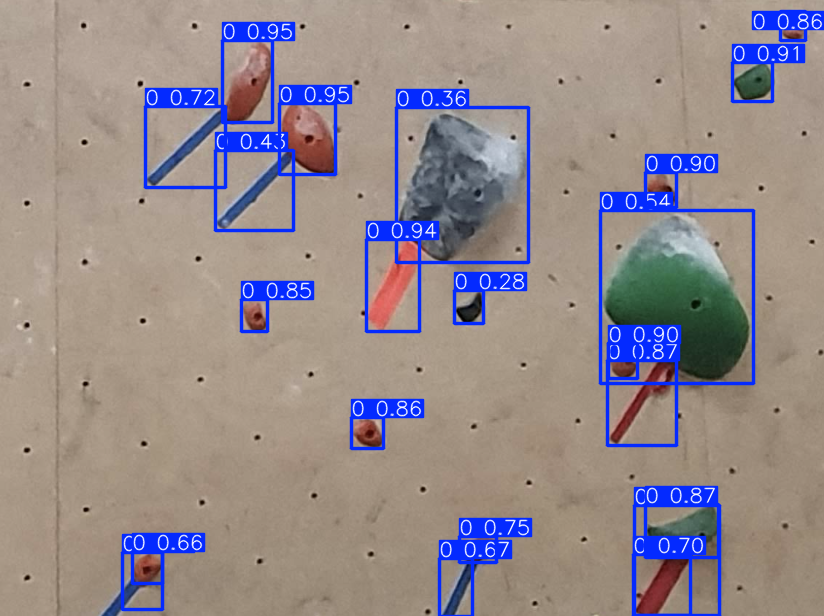
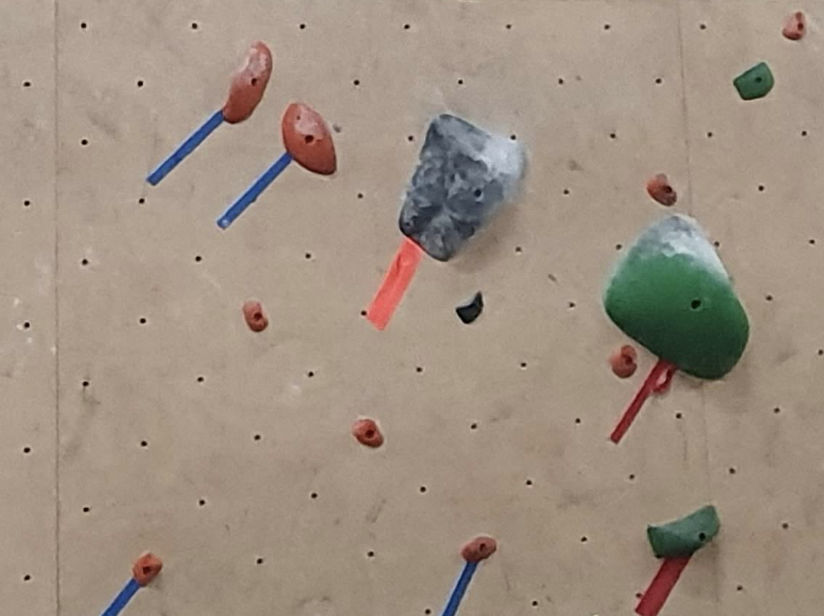
Route classification

diff --git a/src/hold_clustering.py b/src/hold_clustering.py
@@ -1,51 +1,211 @@
 import cv2
 import numpy as np
 from sklearn.cluster import KMeans
+from sklearn.cluster import DBSCAN
 import matplotlib.pyplot as plt
+import os
+import shutil
 
-def dominant_color(image, bbox, k=3):
-    """
-    Find the dominant color in a given bounding box using K-means clustering.
+def rgb_distance(color1, color2):
+    # Convert the colors to numpy arrays to facilitate calculation
+    color1 = np.array(color1)
+    color2 = np.array(color2)
     
-    Parameters:
-    - image: The image in which to find the dominant color.
-    - bbox: A tuple (x, y, w, h) representing the bounding box.
-    - k: The number of clusters for K-means (default is 3).
+    background_colour = np.array([170, 157, 145])
+
+    if np.linalg.norm(color1 - background_colour) > np.linalg.norm(color2 - background_colour):
+        return color1
+    else:
+        return color2
     
-    Returns:
-    - The RGB value of the dominant color.
-    """
-    # Crop the image to the bounding box
-    x, y, w, h = bbox
-    cropped_image = image[y:y+h, x:x+w]
+def extract_roi(image, detection):
+    # Image dimensions
+    image_height, image_width, _ = image.shape
     
-    # Reshape the cropped image to a 2D array (pixels, 3 color channels)
-    pixels = cropped_image.reshape((-1, 3))
+    # Extract values from the detection dictionary
+    x_center = detection['x_center']
+    y_center = detection['y_center']
+    width = detection['width']
+    height = detection['height']
     
-    # Apply K-means clustering to find dominant colors
+    # Denormalize the coordinates (convert to pixel values)
+    x_center_pixel = int(x_center * image_width)
+    y_center_pixel = int(y_center * image_height)
+    width_pixel = int(width * image_width)
+    height_pixel = int(height * image_height)
+    
+    # Calculate top-left corner and bottom-right corner coordinates
+    x1 = int(x_center_pixel - width_pixel / 2)
+    y1 = int(y_center_pixel - height_pixel / 2)
+    x2 = int(x_center_pixel + width_pixel / 2)
+    y2 = int(y_center_pixel + height_pixel / 2)
+    
+    # Extract the region of interest (ROI)
+    roi = image[y1:y2, x1:x2]
+    
+    return roi
+
+def dominant_color(image, detection, k=2, plotting=False):
+    image = cv2.cvtColor(image, cv2.COLOR_BGR2RGB)
+    roi = extract_roi(image, detection)
+    pixels = roi.reshape((-1, 3))
+    
     kmeans = KMeans(n_clusters=k)
     kmeans.fit(pixels)
+
+    dominant_colors = kmeans.cluster_centers_.astype(int)
+    # print(f'Dominant Colors: {dominant_colors}')
+    rgb_dist = rgb_distance(dominant_colors[0], dominant_colors[1])
+    color_image = np.full((100, 100, 3), rgb_dist, dtype=np.uint8)
+    # print(f'RGB Distance: {rgb_dist}')
+
+    labels = kmeans.predict(pixels)
+    # print(f'Labels: {labels}')
+
+
+    new_pixels = dominant_colors[labels]
+    new_image = new_pixels.reshape(roi.shape)
+
+
+    # Plot Images
+    if plotting:
+        plt.figure(figsize=(12, 6))
+        plt.subplot(1, 3, 1)
+        plt.imshow(new_image)
+        plt.subplot(1, 3, 2)
+        plt.imshow(roi)
+        plt.subplot(1, 3, 3)
+        plt.imshow(color_image)
+        plt.show()
+        # plt.close()
+
     
-    # Get the cluster centers (dominant colors)
-    dominant_color = kmeans.cluster_centers_[np.argmax(np.bincount(kmeans.labels_))]
+    return rgb_dist
+
+def group_colours(colours):
+    colours = np.array([colour[0] for colour in colours])
+
+    dbscan = DBSCAN(eps=20, min_samples=2).fit(colours)
+
+    labels = dbscan.labels_
+
+    return labels
+
+def draw_yolo_bounding_box(image, detection):
+    # Get the image dimensions
+    image_height, image_width, _ = image.shape
     
-    return dominant_color
+    # Extract values from the dictionary
+    class_id = detection['class']
+    x_center = detection['x_center']
+    y_center = detection['y_center']
+    width = detection['width']
+    height = detection['height']
+    
+    # Denormalize the coordinates (convert to pixel values)
+    x_center_pixel = int(x_center * image_width)
+    y_center_pixel = int(y_center * image_height)
+    width_pixel = int(width * image_width)
+    height_pixel = int(height * image_height)
 
-# Load the image
-image = cv2.imread('your_image.jpg')
+    # Calculate top-left corner and bottom-right corner coordinates
+    x1 = int(x_center_pixel - width_pixel / 2)
+    y1 = int(y_center_pixel - height_pixel / 2)
+    x2 = int(x_center_pixel + width_pixel / 2)
+    y2 = int(y_center_pixel + height_pixel / 2)
 
-# Example bounding box (x, y, width, height)
-bbox = (50, 50, 200, 200)  # Modify this based on the region of interest in your image
+    # Draw the rectangle (bounding box) on the image
+    color = (0, 255, 0)  # Green color (BGR format)
+    thickness = 2  # Thickness of the bounding box
+    image = cv2.rectangle(image, (x1, y1), (x2, y2), color, thickness)
 
-# Find the dominant color
-dominant_color = dominant_color(image, bbox)
+    # Optionally, you can also draw the class label text near the box
+    label = f"Class {class_id}"
+    font = cv2.FONT_HERSHEY_SIMPLEX
+    cv2.putText(image, label, (x1, y1 - 10), font, 0.5, (255, 255, 255), 2)
 
-# Convert the dominant color from BGR to RGB (OpenCV uses BGR by default)
-dominant_color_rgb = dominant_color[::-1]
+    return image
 
-# Display the dominant color
-plt.imshow([[dominant_color_rgb]])
-plt.axis('off')
-plt.show()
+def classify_holds(hold_colours, labels):
+    filename = './classified_images/test3.png'
+    max_label = max(labels)
+    detections = load_yolo_detections('./classified_images/test3_detection_results.txt')
+    os.makedirs('./classified_images/classified_holds', exist_ok=True)
 
-print(f"Dominant color in RGB: {dominant_color_rgb}")
+    for i in range(0, max_label + 1):
+        image = cv2.imread(filename)
+        image = cv2.cvtColor(image, cv2.COLOR_BGR2RGB)
+
+        for index, label in enumerate(labels):
+            if label != i:
+                continue
+            
+            detection = detections[index]
+
+            image = draw_yolo_bounding_box(image, detection)
+                
+        plt.imshow(image)
+        plt.show()
+        plt.close()
+        
+        image = cv2.cvtColor(image, cv2.COLOR_BGR2RGB)
+        cv2.imwrite(f'./classified_images/classified_holds/test3_class{i}.png', image)
+        print(f'./classified_images/classified_holds/test3_class{i}.png')
+        # cv2.imshow('image', image)
+        # cv2.waitKey(0)
+        # break
+
+
+def load_yolo_detections(file_path):
+    detections = []
+    with open(file_path, 'r') as f:
+        for line in f:
+            parts = line.strip().split()
+            if len(parts) != 5:
+                continue
+            
+            # Convert to numerical values
+            class_id = int(parts[0])
+            x_center, y_center, width, height = map(float, parts[1:])
+            
+            # Append detection as a dictionary
+            detections.append({
+                'class': class_id,
+                'x_center': x_center,
+                'y_center': y_center,
+                'width': width,
+                'height': height,
+            })
+    return detections
+        
+
+def sort_holds_by_colour(hold_colours, labels):
+    destination_dir = "./classified_images/0"
+
+    # Process each image and class
+    for label, hold_colour in zip(labels, hold_colours):
+        # Create the class folder if it doesn't exist
+        class_folder = os.path.join(destination_dir, str(label))
+        os.makedirs(class_folder, exist_ok=True)
+
+        shutil.copy(destination_dir + '/' + hold_colour[0], class_folder)
+
+
+if __name__ == "__main__":
+    colours = []
+    detections = load_yolo_detections('./classified_images/test3_detection_results.txt')
+    id = 0
+
+    for detection in detections:
+        detection['id'] = id
+        image = cv2.imread('./classified_images/test3.png')
+        # colour = dominant_color(image, detection, plotting=True)
+        colour = dominant_color(image, detection)
+        colours.append((colour, id))
+        id += 1
+
+    labels = group_colours(colours)
+
+    classify_holds(colours, labels)
+    # sort_holds_by_colour(colours, labels)
+

diff --git a/src/test_model.py b/src/test_model.py
@@ -1,12 +1,14 @@
 from ultralytics import YOLO
 import os
+import shutil
 
 
 input_image = 'test3.png'
 trained_model = YOLO(f'eric_laptop_models/yolo11n_custom_trained_{15}.pt')
 result = trained_model(input_image)
 for r in result:
-    r.save(filename=f'classified_images/{input_image}')
+    shutil.copy(input_image, 'classified_images/')
+    r.save(filename=f'classified_images/{input_image[:-4]}_bbox.png')
     r.save_crop('classified_images', file_name='hold.png')
     r.save_txt(f'classified_images/{input_image[:-4]}_detection_results.txt', save_conf=False)
 # print(result)
